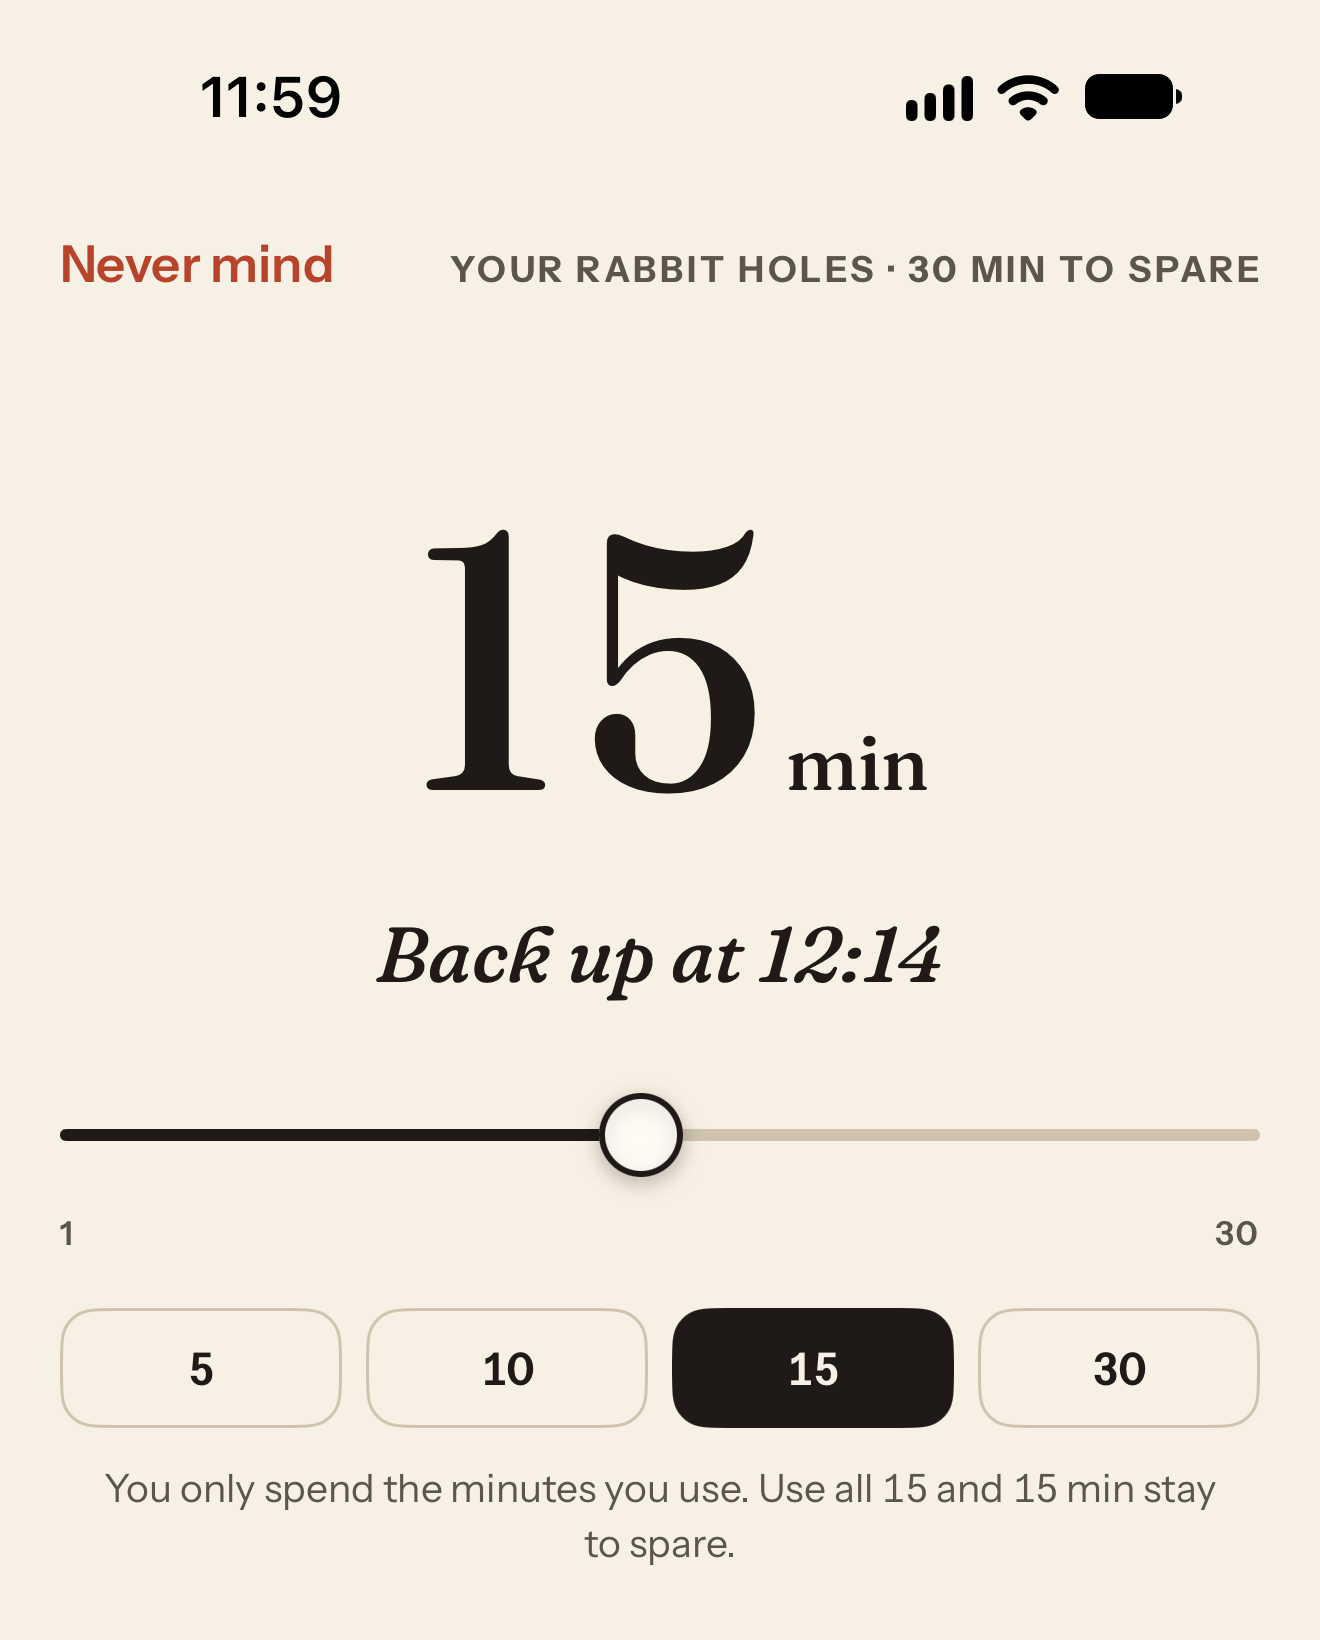
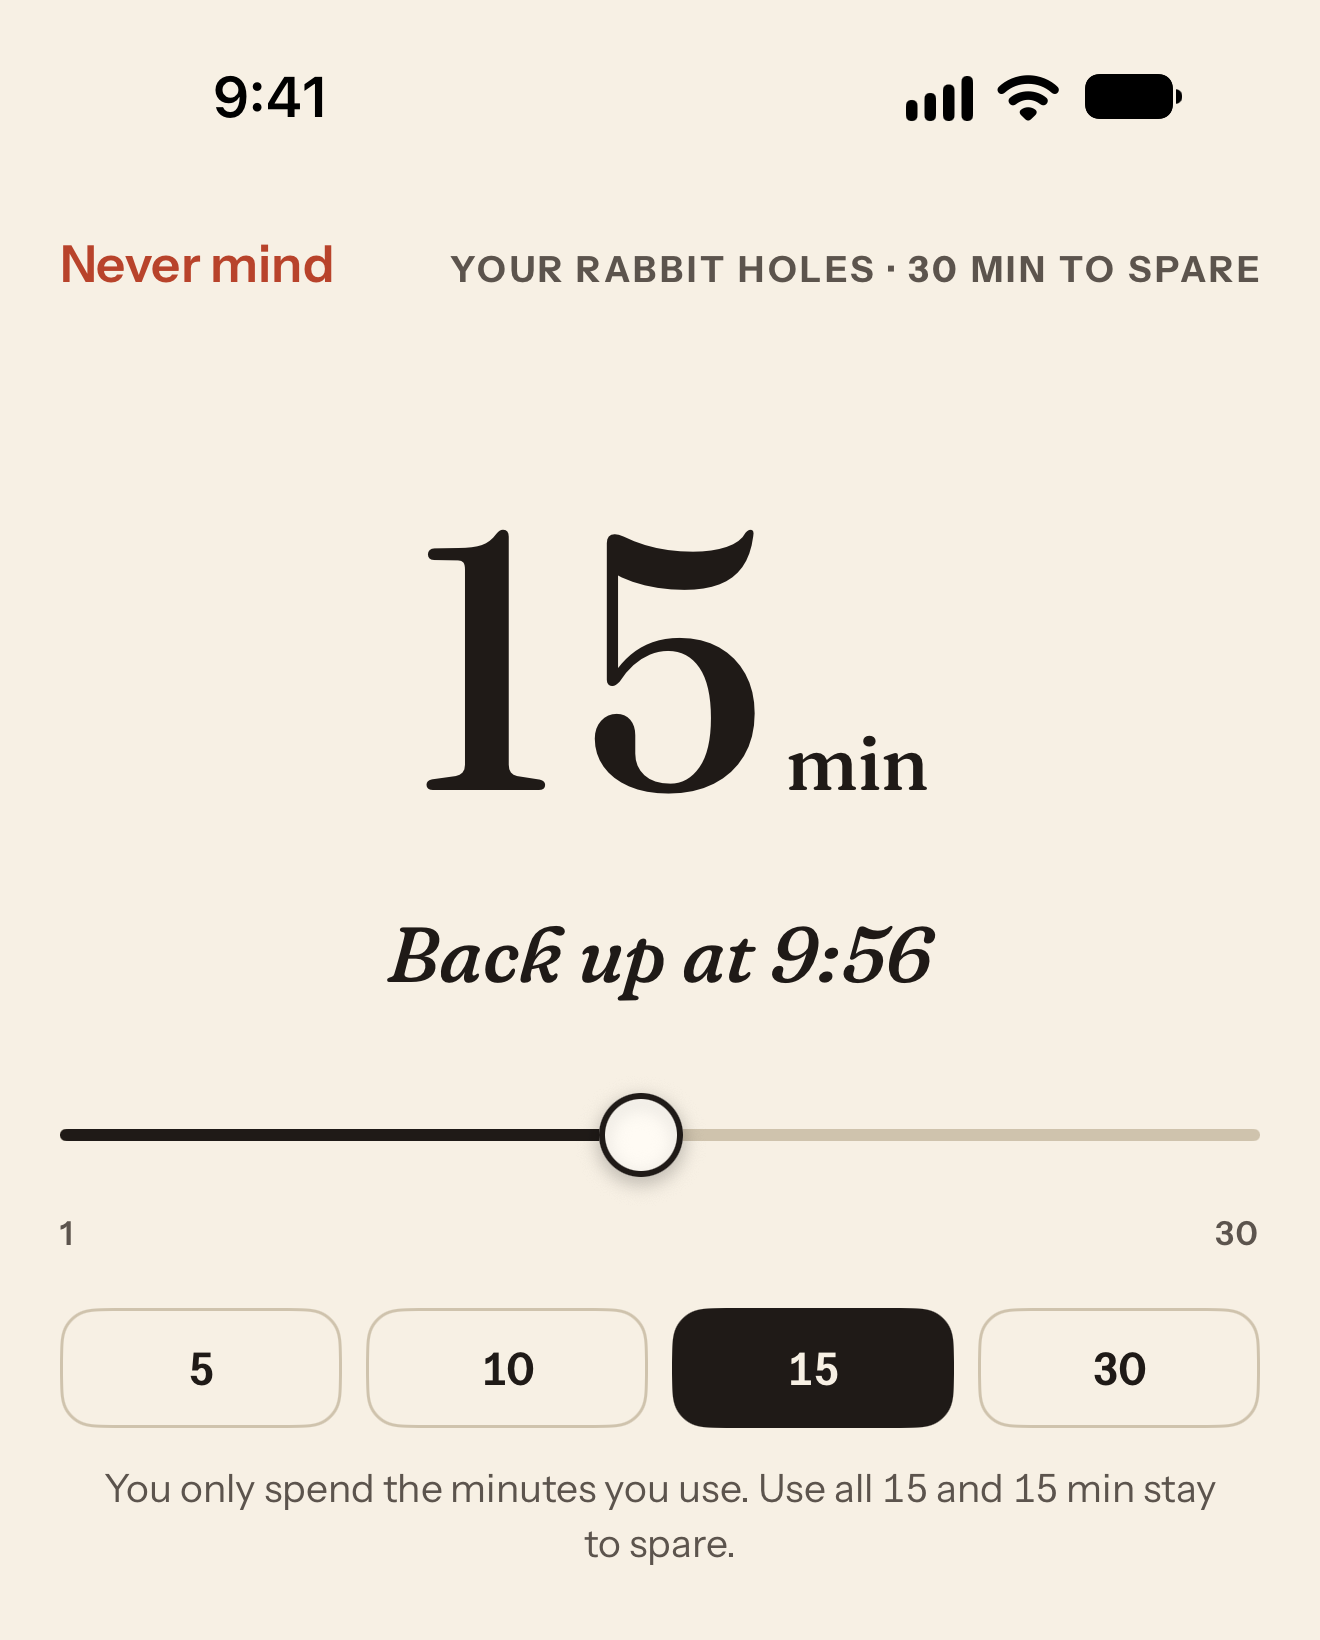
Screenshots: The site shows the third capture of the app, from Monday, October 12.
The hero phone, the Earn panel and the limit panel use the new kit pictures, cropped the same way as before, so the panels end at the same rows. The social image is the new one, and the alt text now says Monday, October 12 and the times 9:41 and 9:56.

Changed region(s): [[0.2795, 0.5598, 0.7144, 0.622], [0.1553, 0.0311, 0.2795, 0.0933]]

diff --git a/src/data/site.ts b/src/data/site.ts
@@ -110,7 +110,7 @@ export const hero = {
    * capture of Home on Premium (2026-10-12), whole and uncropped.
    */
   screenAlt:
-    'Up For Air’s Home screen at 1:41 on Sunday, October 11. Under the greeting “Good afternoon!”, a white bunny stands beside its hole on green hills with the sun overhead. Below are a Checkpoints row listing Desk and Kitchen, 47 min to spare with a Dip in button, and the Earned today list totaling 49 min: your walk, 3,720 steps, 9 min; a workout of 10 minutes, 10 min; mindful minutes, 3 minutes, 6 min; a focus block, 25 minutes with the phone down, 15 min; the Gym, here now since 1:19, 9 min; and a session from 11:21 to 11:36, −15 min.',
+    'Up For Air’s Home screen at 1:41 on Monday, October 12. Under the greeting “Good afternoon!”, a white bunny stands beside its hole on green hills with the sun overhead. Below are a Checkpoints row listing Desk and Kitchen, 47 min to spare with a Dip in button, and the Earned today list totaling 49 min: your walk, 3,720 steps, 9 min; a workout of 10 minutes, 10 min; mindful minutes, 3 minutes, 6 min; a focus block, 25 minutes with the phone down, 15 min; the Gym, here now since 1:19, 9 min; and a session from 11:21 to 11:36, −15 min.',
 };
 
 /** The strip under the hero: ledger lines, activity first, minutes second (default rates). */
@@ -355,7 +355,7 @@ export const features = {
      * from the top down to the note, cut at 1320 × 1640.
      */
     limit: {
-      alt: 'The screen that asks how long before you dip in, at 11:59. At the top are Never mind and “Your rabbit holes · 30 min to spare”. A large “15 min” sits over “Back up at 12:14”, then a slider from 1 to 30 and quick picks 5, 10, 15, and 30, with 15 selected, and the note “You only spend the minutes you use. Use all 15 and 15 min stay to spare.”',
+      alt: 'The screen that asks how long before you dip in, at 9:41. At the top are Never mind and “Your rabbit holes · 30 min to spare”. A large “15 min” sits over “Back up at 9:56”, then a slider from 1 to 30 and quick picks 5, 10, 15, and 30, with 15 selected, and the note “You only spend the minutes you use. Use all 15 and 15 min stay to spare.”',
     },
   },
 };

diff --git a/README.md b/README.md
@@ -70,5 +70,5 @@ says "Free on the App Store".
 - Keep every screenshot on a Premium account. The site describes every feature as part of the app, keeps the differences between Free and Premium in the pricing cards, and says "Screenshots show Up For Air Premium." in the footer (`footer.screenshotNote`). Every capture on the site is a Premium one, including the Earn tab with all five ways on.
 - Confirm the Vecteezy licence for the stock bunnies (file 59868990). Under the Free licence the footer credit ("Bunny illustrations from Vecteezy.com", `footer.artCredit`) must stay; under the Pro licence it may go.
 - Swap the placeholder artwork in `src/assets/art/` for the illustrator's files (same names, same viewBoxes), then remove `footer.artNote` and, if no stock art is left, `footer.artCredit`.
-- When the app's screens change, take the new captures from the kit with the same names: copy `home-day-light.png` whole, cut `earn-light-top.png` and `unlock-limit-15-light-top.png` from the top of their captures (check that each crop still ends just below its card or note), copy the kit's `og/upforair-og.png` over `public/og.png`, and update the alt text in `site.ts` from the kit's README. The pictures show the app's Debug mock day, which says Sunday on Home and Monday on Earn; the two never sit side by side.
+- When the app's screens change, take the new captures from the kit with the same names: copy `home-day-light.png` whole, cut `earn-light-top.png` and `unlock-limit-15-light-top.png` from the top of their captures (check that each crop still ends just below its card or note), copy the kit's `og/upforair-og.png` over `public/og.png`, and update the alt text in `site.ts` from the kit's README. The pictures show the app's Debug mock day, which says Monday, October 12 on every screen.
 - Replace the Rabbit holes replica with a capture from a phone (the simulator cannot show locked apps), cropped the same way as the other two panels.
